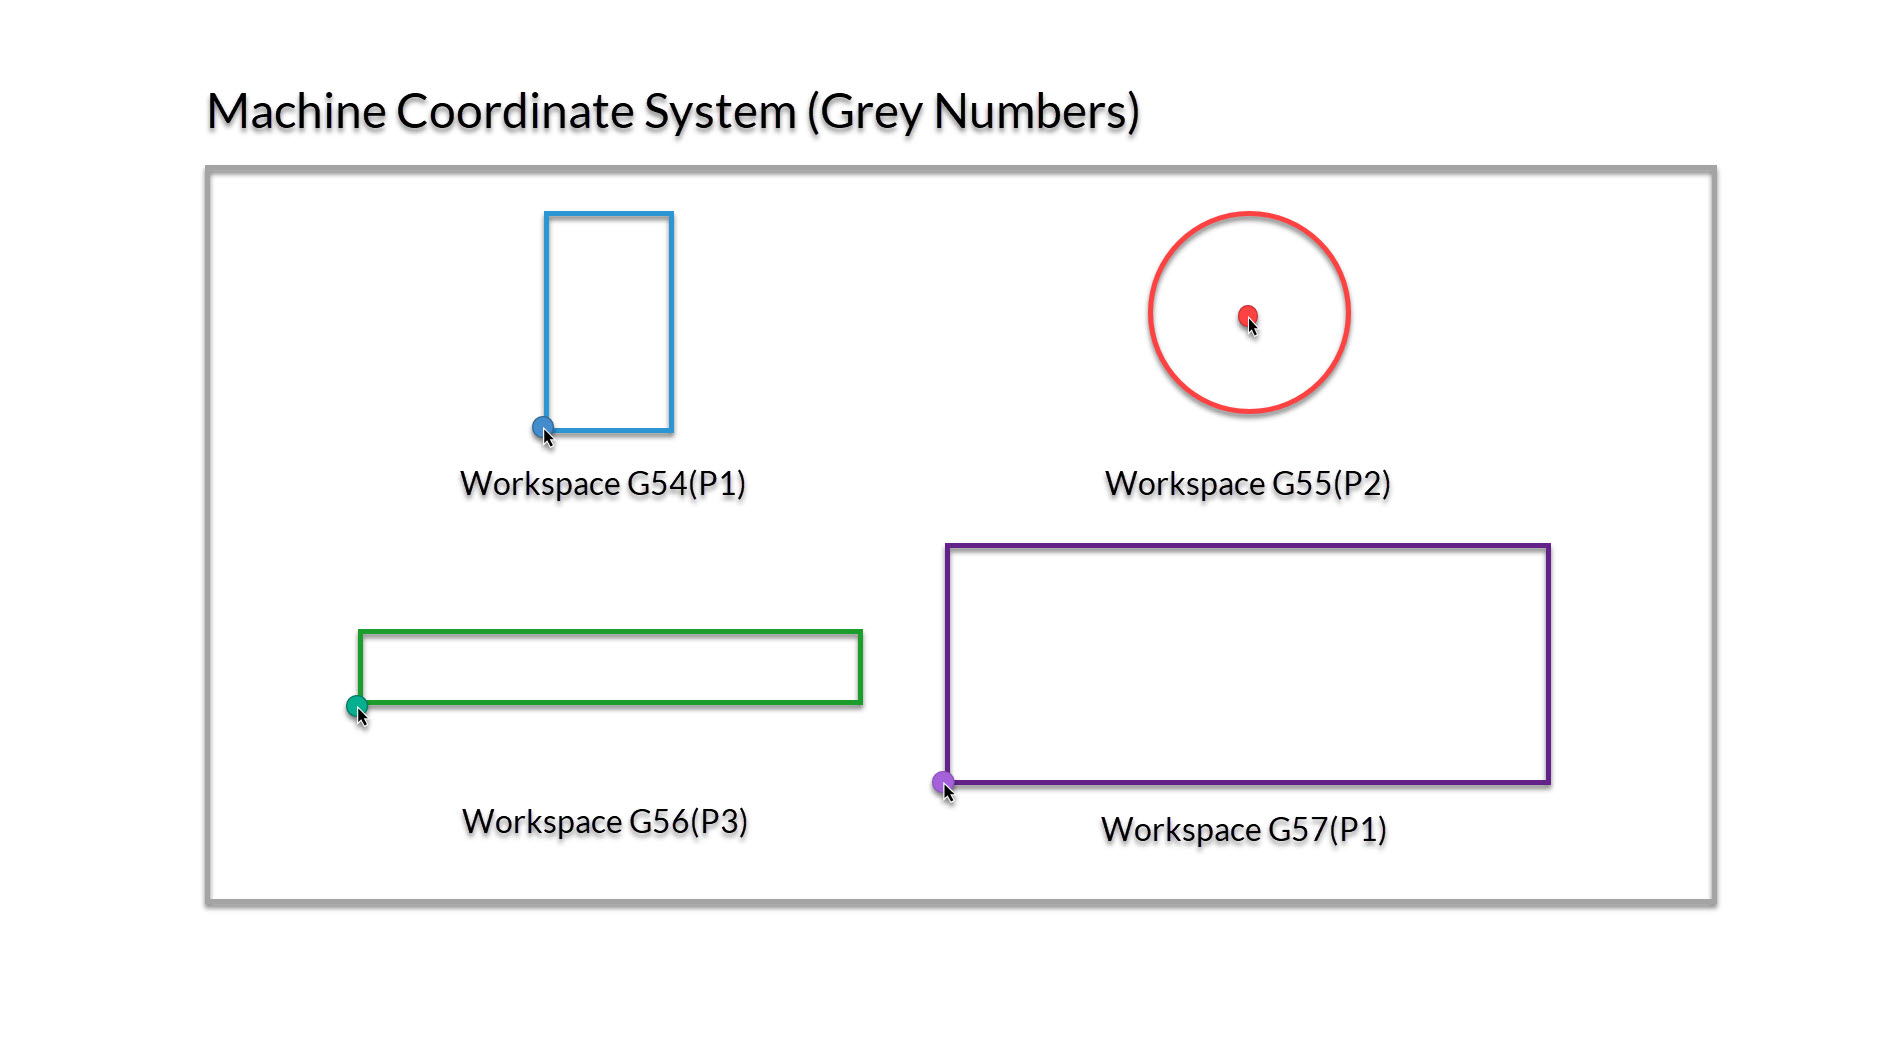
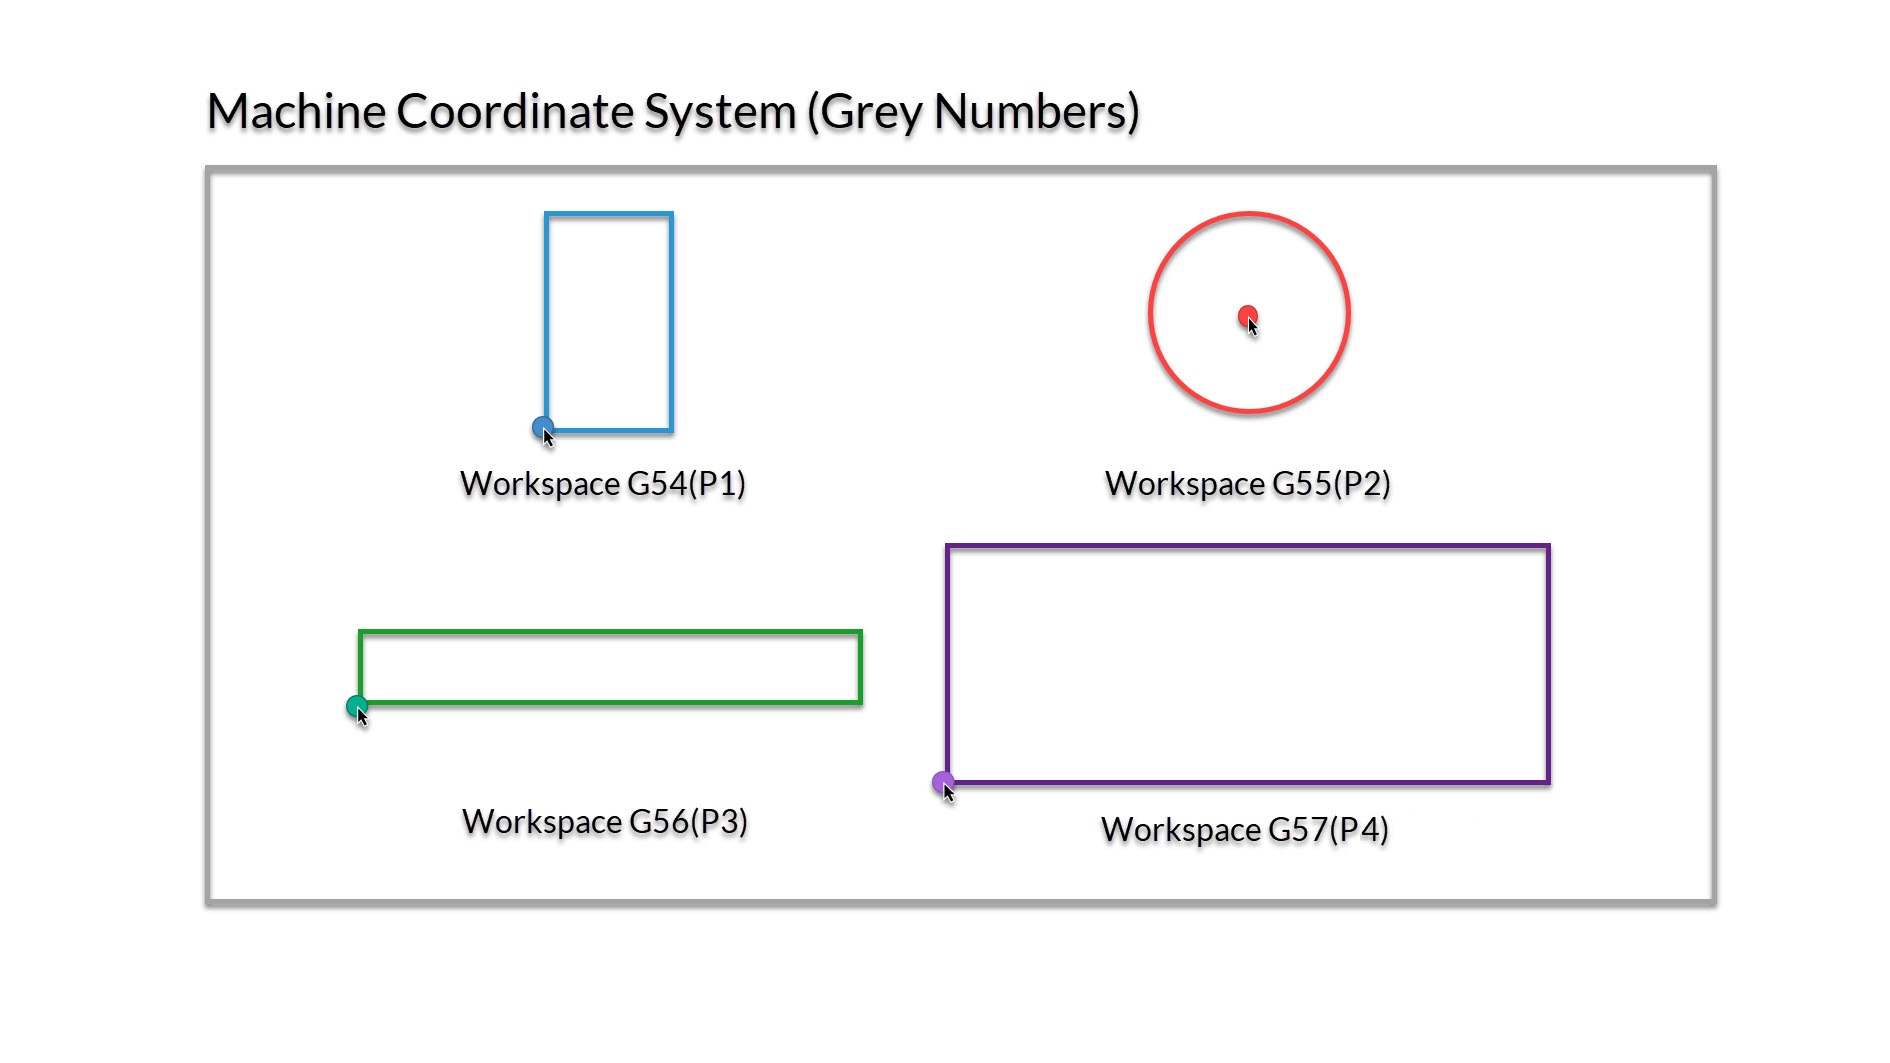
More work on workspaces/WCS, changed crop on images, typo in workspace image

Changed region(s): [[0.718, 0.7761, 0.7492, 0.8071]]

diff --git a/gsender/gs-additional-features.md b/gsender/gs-additional-features.md
@@ -313,56 +313,65 @@ Before getting into the weeds on how you can set up limit switches and homing on
 - On the main Carve page, above the jog controls, you should see a set of numbers and buttons that make up your machines 'DRO' (Digital Read Out). You can think of it as similar to a car navigation system.
   - The buttons around this area allow you to make quick movements (blue buttons) and set the <span style="color: #3e85c7;">blue numbers</span> back to a value of 0.
   - You'll see two sets of numbers, where the blue ones on the left are your **<span style="color: #3e85c7; text-decoration: underline;">Work Coordinates</span>** and the gray ones on the right are your **<span style="color: #777; text-decoration: underline;">Machine Coordinates</span>**; these are the two primary coordinate systems that guide a CNCs movements.
-  ![](/_images/_gsender/_features/_dro/gs_fe_dro.jpg){.aligncenter .size-medium}
-- A CNC's **<span style="color: #3e85c7; text-decoration: underline;">Work Coordinates</span>** are very often used/edited in day-to-day cutting.
+  ![](/_images/_gsender/_features/_dro/gs_fe_dro.jpg){.aligncenter .size-full}
+- A CNC's **<span style="color: #3e85c7; text-decoration: underline;">Work Coordinates</span>** are very often used/edited in day-to-day cutting since they describe the exact location of the project that you're planning to cut.
+  - This is effectively the 'working area' of your project.
+  - Once you've placed your material on the machine bed, you'll bring the cutting head to the starting point for the project (also known as the 'zero point' or 'origin') then let the machine know that it's now at the starting location.
+  - When you're at the starting location for your project, the <span style="color: #3e85c7;">work coordinates</span> should all read as '0', but if you manually move your CNC to the left, down, or towards you then the number will start to decrease, or they'll increase if you move right, up, or away from you.
+- The **<span style="color: #777; text-decoration: underline;">Machine Coordinates</span>** starts to become more important once you've set up **Homing** on your CNC
+  - These numbers are very similar to <span style="color: #3e85c7;">work coordinates</span>, except they describe the 'working area' of the CNC itself.
+  - This means that once you turn on your machine and home it, it'll now know exactly where it's located within its physical size constraints, it'll also know the exact offset between the homing location and the location of your <span style="color: #3e85c7;">work coordinates</span>.
+  - This starts to become powerful because you can then do things like resume cutting your job after a loss of connection or power-outage for example. Using homing and <span style="color: #777;">machine coordinates</span> gives your CNC the memory of its location no matter the circumstances.
+  - Using <span style="color: #777;">machine coordinates</span> without homing is also still possible, but you'd need to bring your machine to a reliable location using probing or some other method, then power-cycle the machine, since without homing the machine coordinates are set at the time the machine first powers on.
+  ![](/_images/_gsender/_features/_dro/gs_fe_dro_offset.jpg){.aligncenter .size-medium}
+
+### Workspaces
+
+Another concept worth mentioning is **workspaces**. Usually you would only have one 'zero position' per project, but what about cases where:
+
+- You need to reorient your material to cut at it from a different side
+- You plan to do a series of carves that require different zero positions
+- You want to align your projects to jigs you've fixed to the CNC bed
+
+In these cases, workspaces are basically the ability for you to set multiple **<span style="color: #3e85c7;">work coordinates</span>** that your machine will remember and can toggle between. All you have to do to use these is select a new workspace using the dropdown on the Carve page, after which everything else will continue to behave as normal including zeroing, probing, running files, and more.
+
+![](/_images/_gsender/_features/_dro/gs_fe_dro_workspacesdrop.jpg){.aligncenter .size-full}
+
+In the image below you can see a demonstration of setting up 4 different workspaces to align to jigs on the wasteboard of the CNC. Each of these has their zero set to the bottom left corner, except the circle jig which has the zero placed at the middle.
+
+![](/_images/_gsender/_features/_dro/gs_fe_dro_workspaces.jpg){.aligncenter .size-medium}
+
+This is also discussed at about 5:30 of the video below:
+
+https://youtu.be/jmiaWA5tiVw
+
+### Setting up Homing
+
+The summary of the benefits of homing is that it allows your CNC to reliably know its own location. This provides many benefits like job recovery and using workspaces for more complex jobs or batch cutting. To get homing working on your CNC, you'll need:
+
+1. **Limit switches** (also referred to as *end stops* or *homing switches*) which are installed at one or both ends of each movement axis of the CNC. You can see an example of these [on our store](https://sienci.com/product/inductive-sensor-kit-for-the-longmill-mk2/).
+1. **Homing enabled in firmware** which can be done through the Config tab
+1. **Machine limits set up** to match the physical travel distances of your CNC
+1. Any other customization you'd like to make for your particular setup
+
 
 
 
 The **machine coordinate system** is a fixed, default system established by the CNC machine's manufacturer. It is defined by the machine's physical size and is used during the homing cycle, when the machine references its internal limits using built-in sensors like limit switches. Users do not modify or choose this system—it simply tells the machine where it is in its own space. If you are not using homing switches, the machine home is determined by where the bit is when the controller is powered on.
 
-In contrast, the **workpiece coordinate system** is fully controlled by the CNC user. This system defines the position of the part on the machine table and ensures the tool moves accurately in relation to the workpiece.
-
-![](/_images/_gsender/_features/_dro/gs_fe_dro_offset.jpg){.aligncenter .size-medium}
-
-### Machine Coordinate System 🏭
 
 The machine coordinate system refers to the CNC machine's own coordinate system, established by the manufacturer. This system is based on the machine's physical structure and its home position (often referred to as the machine's home or (0,0,0) point).
 
 When you power on the machine and perform a homing sequence, the machine references this built-in coordinate system to determine its position in space. This system ensures that the machine has a consistent reference point for all operations.
 
-### Workpiece Coordinate System 🧱
-
-The workpiece offset is a user-defined coordinate system that aligns the machine's operations with the specific location of the workpiece on the machine bed. This system allows users to set a new origin point (0,0,0) based on the workpiece's position.
 
 In gSender, you can set workpiece offsets using standard G-code commands like G54 to G59. These commands allow you to define multiple work coordinate systems, which is especially useful when working on different parts or setups without re-homing the machine each time. These are called your workspaces.
-
-## Workspaces
-
-Usually you would only have one origin or zero position for your project. However, if you plan to do a series of projects that require different zero positions, or are lining up to do some more complex jigging or part batches, you may want to set up multiple workspaces all at once. This can save you time by not having to set a zero position for repetitive tasks or specific jig setups. You can do this by creating up to six different zero positions with the six workspaces in gSender. Access each 'Workspace' at the top right of the program by pressing the drop down to select which workspace to use. gSender will act completely in-line with whatever workspace you've selected, whether you want to set zero, probe, surface, or anything else.
-
-![](/_images/_gsender/_features/_dro/gs_fe_dro_workspacesdrop.jpg){.aligncenter .size-medium}
-
-The use of different **Workspaces** is most helpful when the machine is able to home the machine coordinate system. Once homed you can select a workspace and setup your project, and gSender will remember where you set the zero for the new workspace. The challenge then becomes placing the project in the correct spot for each workspace. Often a jig is created, to ensure perfect placement for your workpiece each time. You can use a workspace without homing/sensors, but it's not very repeatable, and you would be resetting them often with each power cycle.
-
-In the image below you can see 4 different workspaces setup, with the zero in the bottom left corner, and the circle in the middle.
-
-![](/_images/_gsender/_features/_dro/gs_fe_dro_workspaces.jpg){.aligncenter .size-medium}
-
-**Note:** *Some files may use a toolpath post processor that changes your workspace!*
-
-The video below explains the process in greater detail. If you're coming from a more technical background, you'd usually call these 'workspaces' G54, G55, G56, ... G59.
-
-https://youtu.be/jmiaWA5tiVw?t=336
-
-## Homing & Limits
-
-Limit switches (also referred to as *inductive sensors*, *end stops* or *homing switches*) are sensors that sit at one or both ends of each movement axis of a CNC to provide a few different functions. gSender provides unique features if you have these switches installed on your machine. You can check out our sensors [Sensor Kit](https://sienci.com/product/inductive-sensor-kit-for-the-longmill-mk2/)
 
 ### Homing
 
 When we turn on homing, we can use 3 sensors to find our machine coordinate home on our machine. For now, we will home to the front left corner of the machine. To enable Homing, Go to Config ➜ Homing/Limits ➜ Homing cycle enable ➜ toggle on.
 
-![](/_images/_gsender/_features/_dro/gs_us_dro_homingon.jpg){.aligncenter .size-medium}
+![](/_images/_gsender/_features/_dro/gs_fe_dro_homingon.jpg){.aligncenter .size-medium}
 
 Using **grblHAL** enables several more detailed options for you to choose from, like homing single axes, requiring homing on startup, set machine origin to 0, and more. In this image, we have enabled homing, but **not** required it on startup. We have toggled to allow us to manually home the machine, and to **Set the machine origin to 0** once complete.
 
